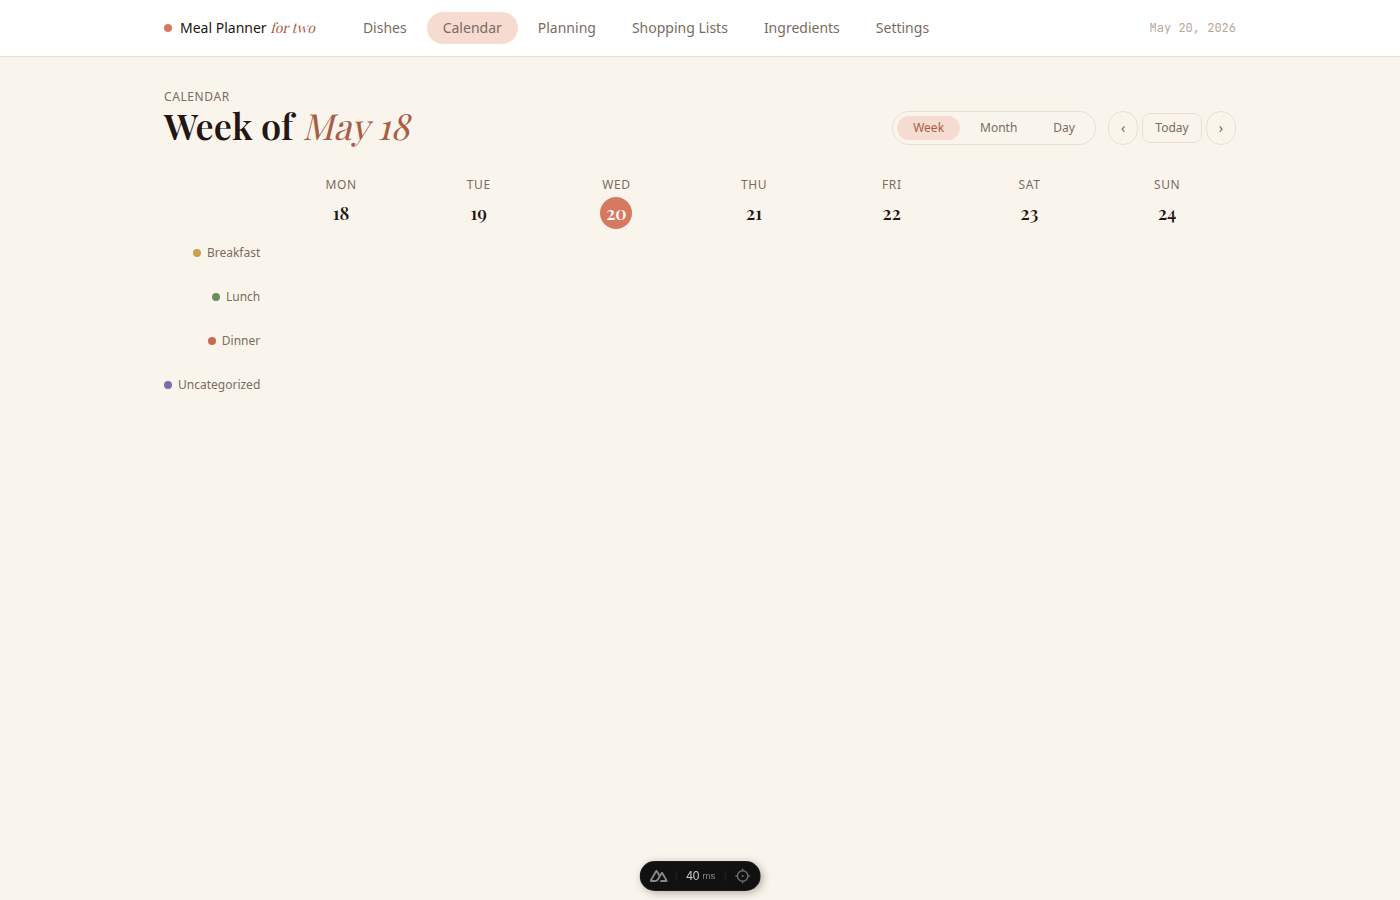
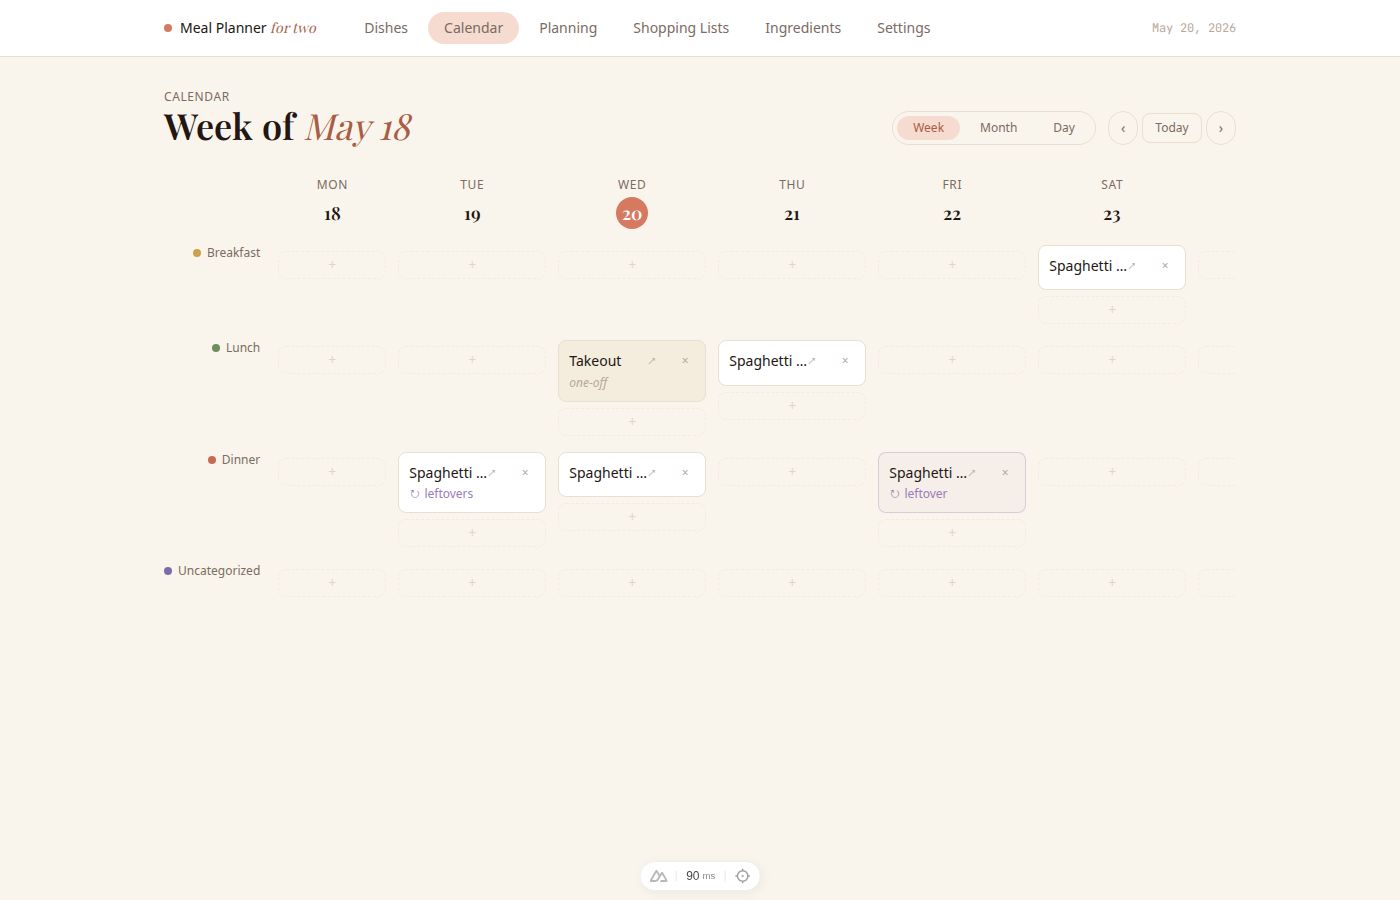
fix: render chips in calendar week view (VueDraggable slot API)
VueDraggable 0.6.1 only renders the #default slot — named slots
(#item, #footer) are silently ignored. Switched to v-for directly
inside the component as default-slot content; moved the add button
outside VueDraggable. Also switched syncWeekSlots to splice in-place
rather than replacing array references so Sortable.js internal state
stays coherent. Retook screenshots showing chips and ↗/× buttons.

diff --git a/app/pages/calendar.vue b/app/pages/calendar.vue
@@ -93,30 +93,27 @@
                 style="min-width: 120px; max-width: 160px;"
               >
                 <VueDraggable
-                  :model-value="getSlot(day.iso, mt)"
+                  v-model="weekSlots[slotKey(day.iso, mt)]"
                   group="plan-entries"
-                  class="flex flex-col gap-1.5 min-h-7"
+                  class="flex flex-col gap-1.5"
                   :data-date="day.iso"
                   :data-meal-type="mt"
-                  @update:model-value="(v: PlanEntry[]) => setSlot(day.iso, mt, v)"
                   @start="onDragStart($event, day.iso, mt)"
                   @end="onDragEnd"
                 >
-                  <template #item="{ element }">
-                    <PlanEntryChip
-                      :entry="element"
-                      @delete="deleteEntry(element.id)"
-                      @move="openMove(element)"
-                    />
-                  </template>
-                  <template #footer>
-                    <button
-                      type="button"
-                      class="flex h-7 w-full items-center justify-center rounded-lg border border-dashed border-border text-text-subtle opacity-40 hover:opacity-100 hover:border-accent hover:text-accent transition text-sm"
-                      @click="openAdd(day.iso, mt)"
-                    >+</button>
-                  </template>
+                  <PlanEntryChip
+                    v-for="element in weekSlots[slotKey(day.iso, mt)]"
+                    :key="element.id"
+                    :entry="element"
+                    @delete="deleteEntry(element.id)"
+                    @move="openMove(element)"
+                  />
                 </VueDraggable>
+                <button
+                  type="button"
+                  class="mt-1.5 flex h-7 w-full items-center justify-center rounded-lg border border-dashed border-border text-text-subtle opacity-40 hover:opacity-100 hover:border-accent hover:text-accent transition text-sm"
+                  @click="openAdd(day.iso, mt)"
+                >+</button>
               </td>
             </tr>
           </tbody>
@@ -290,34 +287,38 @@ function allEntriesForDay(date: string): PlanEntry[] {
   return entries.value?.filter(e => e.date === date) ?? []
 }
 
-function slotKey(date: string, mt: MealType): string {
+// Template literal type ensures noUncheckedIndexedAccess treats indexing as non-optional.
+type SlotKey = `${string}__${MealType}`
+
+function slotKey(date: string, mt: MealType): SlotKey {
   return `${date}__${mt}`
 }
 
 // ── Week view drag-and-drop ──────────────────────────────────────
-// Reactive map of slot arrays used as v-model targets for VueDraggable.
+// Reactive map of slot arrays bound via v-model to VueDraggable.
 // Synced from query on every entries update; vue-draggable-plus mutates
-// these arrays during drag for live visual feedback.
-const weekSlots = reactive<Record<string, PlanEntry[]>>({})
+// these arrays in place during drag for live visual feedback.
+// Typed as Record<SlotKey, any> so noUncheckedIndexedAccess doesn't add | undefined
+// to the slot index access used in the VueDraggable v-model binding.
+// Runtime values are always PlanEntry[] — set exclusively by syncWeekSlots.
+const weekSlots = reactive({}) as unknown as Record<SlotKey, any>
 
 function syncWeekSlots() {
   for (const day of weekDays.value) {
     for (const mt of MEAL_TYPES) {
-      weekSlots[slotKey(day.iso, mt)] = entriesFor(day.iso, mt)
+      const key = slotKey(day.iso, mt)
+      const fresh = entriesFor(day.iso, mt)
+      if (!weekSlots[key]) {
+        weekSlots[key] = [...fresh]
+      } else {
+        weekSlots[key].splice(0, weekSlots[key].length, ...fresh)
+      }
     }
   }
 }
 
 watch(entries, syncWeekSlots, { immediate: true })
 watch(weekDays, syncWeekSlots)
-
-function getSlot(date: string, mt: MealType): PlanEntry[] {
-  return weekSlots[slotKey(date, mt)] ?? []
-}
-
-function setSlot(date: string, mt: MealType, value: PlanEntry[]) {
-  weekSlots[slotKey(date, mt)] = value
-}
 
 // Track which entry is being dragged so @end can identify it by ID.
 let draggedEntryId: number | null = null
@@ -327,7 +328,7 @@ function onDragStart(
   fromDate: string,
   fromMt: MealType,
 ) {
-  const sourceList = weekSlots[slotKey(fromDate, fromMt)] ?? []
+  const sourceList = weekSlots[slotKey(fromDate, fromMt)]
   draggedEntryId = sourceList[evt.oldIndex ?? 0]?.id ?? null
 }
 
